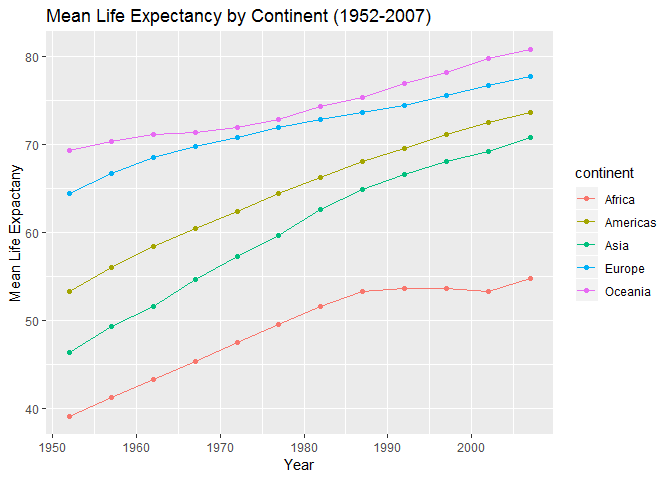
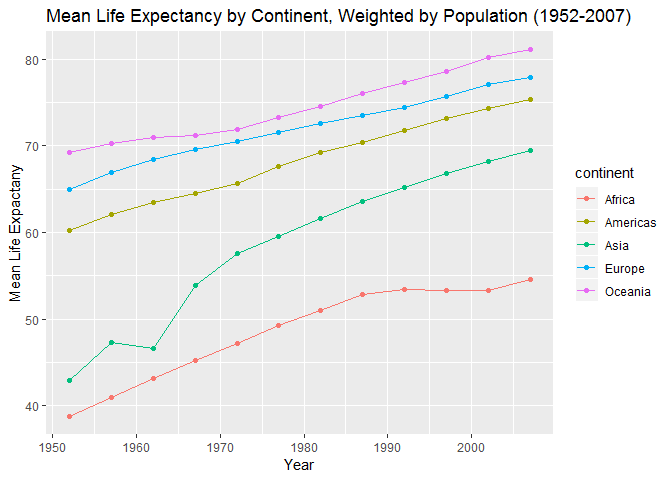
Added text and violin plot with y axis scaled to log10

diff --git a/hw03-schignel.md b/hw03-schignel.md
@@ -3,8 +3,15 @@ Homework 3
 Stephen Chignell
 October 2, 2018
 
+Overview
+========
+
+The following sections demonstrates the `tidyverse` and `ggplot2` packages for filtering, organizing, and visualizing, using the `gapminder` dataset as an example.
+
 Load Libraries
 ==============
+
+First, we need to load the required libraries (install the packages beforehand if necessary).
 
 ``` r
 suppressPackageStartupMessages(library(gapminder))
@@ -15,7 +22,7 @@ suppressPackageStartupMessages(library(ggplot2))
 Exploration Tasks
 =================
 
-We will use the following sections to demonstrate a few common tasks used in data exploration. The will provide a useful reference for future work.
+The following sections demonstrate a number of common tasks used in data exploration providing a useful reference for future work.
 
 ### 1. Get the maximum and minimum of GDP per capita for all continents
 
@@ -41,17 +48,21 @@ knitr::kable(GDPmm)
 | Europe    |   49357.19|    973.5332|
 | Oceania   |   34435.37|  10039.5956|
 
-Plot using a barchart
+Let's make two barcharts to better visualize these.
+
+**Max GDP by Continent**
 
 ``` r
 ggplot(GDPmm, aes(continent, max.gdp))+
-  geom_bar(stat = "identity", position = "dodge")+
+  geom_bar(stat = "identity")+
   aes(color = continent, fill = continent)+
   xlab("Continent")+
   ylab("Maximum GDP per Capita")
 ```
 
 ![](hw03-schignel_files/figure-markdown_github/barmax-1.png)
+
+**Minimum GDP by Continent**
 
 ``` r
 ggplot(GDPmm, aes(continent, min.gdp))+
@@ -64,6 +75,8 @@ ggplot(GDPmm, aes(continent, min.gdp))+
 ![](hw03-schignel_files/figure-markdown_github/barmin-1.png)
 
 ### 2. Look at the spread of GDP per capita within the continents
+
+To accompish this, we will filter the dataset and then apply a series of computations using the`summarize()` function:
 
 ``` r
 GDP_spread <- gapminder %>% 
@@ -83,6 +96,8 @@ knitr::kable(GDP_spread)
 | Europe    |  14469.476|   87520020|   9355.213|
 | Oceania   |  18621.609|   40436669|   6358.983|
 
+To visualize the spread of these data, we can use a boxplot:
+
 ``` r
 gapminder %>% 
   group_by(continent) %>% 
@@ -95,105 +110,121 @@ gapminder %>%
 
 ![](hw03-schignel_files/figure-markdown_github/boxplot-1.png)
 
-However, a violin plot will provide a better sense of the spread:
+The boxplot is useful, but a violin plot will provide a better visualization, since it shows all of the data points as well as the range:
 
 ``` r
 gapminder %>% 
   group_by(continent) %>% 
   ggplot(aes(continent, gdpPercap))+
-  geom_jitter(aes(color = continent, alpha=0.1))+
   geom_violin(aes(color = continent))+
+  geom_jitter(aes(color = continent, alpha=0.1))+
   xlab("Continent")+
   ylab("GDP per capita")+
   ggtitle("Gross Domestic Product per capita by Continent (1952-2007)")
 ```
 
-![](hw03-schignel_files/figure-markdown_github/violin-1.png)
+![](hw03-schignel_files/figure-markdown_github/violin-1.png) Here we see that GDP per capita varies widely within continents. This is particularly true for Asia, which has a far more extreme range than any of the other continents.
 
-Here we see that GDP per capita varies widely within continents. This is particularly true for Asia, which has a far more extreme range than any of the other continents.
+One final adjustment to this chart would be to put the Y axis on a log10 scale, so that we can better visualize the data points that are clustered near the bottom:
+
+``` r
+gapminder %>% 
+  group_by(continent) %>% 
+  ggplot(aes(continent, gdpPercap))+
+  geom_violin(aes(color = continent))+
+  geom_jitter(aes(color = continent, alpha=0.1))+
+  scale_y_log10()+
+  xlab("Continent")+
+  ylab("GDP per capita")+
+  ggtitle("Gross Domestic Product per capita by Continent (1952-2007)")
+```
+
+![](hw03-schignel_files/figure-markdown_github/violin_log-1.png) **Note** There is a tradeoff between the log10 plot and the previous plot, in that the former makes the differences between the ranges less obvious, but has the advantage of showing the "shape" of the violins, which is not possible on the normal y-axis. The ultimate choice should be based on the message that is most important to communicate for the question at hand.
 
 ### 3. How is life expectancy changing over time on different continents?
 
-For this question, we will first:
+For this question, we will group and summarize the data, and then compute the mean life expectancy, weighted by population:
 
 ``` r
 lexp <- gapminder %>% 
-  group_by(continent, year) %>%
-  summarize(mean.lexp = mean(lifeExp)) %>% 
-  arrange(year)
-knitr::kable(lexp)  
+  group_by(continent, year) %>% #group by continent and year
+  summarize(wmean.lexp = weighted.mean(lifeExp,pop)) %>% #weighted mean by population
+  arrange(year) #arrange in ascending order by year
+knitr::kable(lexp)  #output to table
 ```
 
-| continent |  year|  mean.lexp|
-|:----------|-----:|----------:|
-| Africa    |  1952|   39.13550|
-| Americas  |  1952|   53.27984|
-| Asia      |  1952|   46.31439|
-| Europe    |  1952|   64.40850|
-| Oceania   |  1952|   69.25500|
-| Africa    |  1957|   41.26635|
-| Americas  |  1957|   55.96028|
-| Asia      |  1957|   49.31854|
-| Europe    |  1957|   66.70307|
-| Oceania   |  1957|   70.29500|
-| Africa    |  1962|   43.31944|
-| Americas  |  1962|   58.39876|
-| Asia      |  1962|   51.56322|
-| Europe    |  1962|   68.53923|
-| Oceania   |  1962|   71.08500|
-| Africa    |  1967|   45.33454|
-| Americas  |  1967|   60.41092|
-| Asia      |  1967|   54.66364|
-| Europe    |  1967|   69.73760|
-| Oceania   |  1967|   71.31000|
-| Africa    |  1972|   47.45094|
-| Americas  |  1972|   62.39492|
-| Asia      |  1972|   57.31927|
-| Europe    |  1972|   70.77503|
-| Oceania   |  1972|   71.91000|
-| Africa    |  1977|   49.58042|
-| Americas  |  1977|   64.39156|
-| Asia      |  1977|   59.61056|
-| Europe    |  1977|   71.93777|
-| Oceania   |  1977|   72.85500|
-| Africa    |  1982|   51.59287|
-| Americas  |  1982|   66.22884|
-| Asia      |  1982|   62.61794|
-| Europe    |  1982|   72.80640|
-| Oceania   |  1982|   74.29000|
-| Africa    |  1987|   53.34479|
-| Americas  |  1987|   68.09072|
-| Asia      |  1987|   64.85118|
-| Europe    |  1987|   73.64217|
-| Oceania   |  1987|   75.32000|
-| Africa    |  1992|   53.62958|
-| Americas  |  1992|   69.56836|
-| Asia      |  1992|   66.53721|
-| Europe    |  1992|   74.44010|
-| Oceania   |  1992|   76.94500|
-| Africa    |  1997|   53.59827|
-| Americas  |  1997|   71.15048|
-| Asia      |  1997|   68.02052|
-| Europe    |  1997|   75.50517|
-| Oceania   |  1997|   78.19000|
-| Africa    |  2002|   53.32523|
-| Americas  |  2002|   72.42204|
-| Asia      |  2002|   69.23388|
-| Europe    |  2002|   76.70060|
-| Oceania   |  2002|   79.74000|
-| Africa    |  2007|   54.80604|
-| Americas  |  2007|   73.60812|
-| Asia      |  2007|   70.72848|
-| Europe    |  2007|   77.64860|
-| Oceania   |  2007|   80.71950|
+| continent |  year|  wmean.lexp|
+|:----------|-----:|-----------:|
+| Africa    |  1952|    38.79973|
+| Americas  |  1952|    60.23599|
+| Asia      |  1952|    42.94114|
+| Europe    |  1952|    64.90540|
+| Oceania   |  1952|    69.17040|
+| Africa    |  1957|    40.94031|
+| Americas  |  1957|    62.01806|
+| Asia      |  1957|    47.28835|
+| Europe    |  1957|    66.89364|
+| Oceania   |  1957|    70.31693|
+| Africa    |  1962|    43.09925|
+| Americas  |  1962|    63.43706|
+| Asia      |  1962|    46.57369|
+| Europe    |  1962|    68.45957|
+| Oceania   |  1962|    70.98808|
+| Africa    |  1967|    45.17721|
+| Americas  |  1967|    64.50630|
+| Asia      |  1967|    53.88261|
+| Europe    |  1967|    69.54963|
+| Oceania   |  1967|    71.17848|
+| Africa    |  1972|    47.21229|
+| Americas  |  1972|    65.70490|
+| Asia      |  1972|    57.52159|
+| Europe    |  1972|    70.46884|
+| Oceania   |  1972|    71.92273|
+| Africa    |  1977|    49.20883|
+| Americas  |  1977|    67.60591|
+| Asia      |  1977|    59.55648|
+| Europe    |  1977|    71.53989|
+| Oceania   |  1977|    73.25684|
+| Africa    |  1982|    51.01744|
+| Americas  |  1982|    69.19264|
+| Asia      |  1982|    61.57472|
+| Europe    |  1982|    72.56247|
+| Oceania   |  1982|    74.58291|
+| Africa    |  1987|    52.82479|
+| Americas  |  1987|    70.35814|
+| Asia      |  1987|    63.53710|
+| Europe    |  1987|    73.44717|
+| Oceania   |  1987|    75.98107|
+| Africa    |  1992|    53.37292|
+| Americas  |  1992|    71.72177|
+| Asia      |  1992|    65.14874|
+| Europe    |  1992|    74.44273|
+| Oceania   |  1992|    77.35788|
+| Africa    |  1997|    53.28327|
+| Americas  |  1997|    73.19154|
+| Asia      |  1997|    66.77092|
+| Europe    |  1997|    75.70849|
+| Oceania   |  1997|    78.61843|
+| Africa    |  2002|    53.30314|
+| Americas  |  2002|    74.24736|
+| Asia      |  2002|    68.13732|
+| Europe    |  2002|    77.02232|
+| Oceania   |  2002|    80.16006|
+| Africa    |  2007|    54.56441|
+| Americas  |  2007|    75.35668|
+| Asia      |  2007|    69.44386|
+| Europe    |  2007|    77.89057|
+| Oceania   |  2007|    81.06215|
+
+The above table provides all of the data, but is not easy to use for picking out patterns. Let's plot the data throught time:
 
 ``` r
-ggplot(data = lexp, aes(x = year, y = mean.lexp))+
+ggplot(data = lexp, aes(x = year, y = wmean.lexp))+ 
   geom_line(aes(color = continent))+
   geom_point(aes(color = continent))+
   xlab("Year")+
   ylab("Mean Life Expactany")+
-  ggtitle("Mean Life Expectancy by Continent (1952-2007)")
+  ggtitle("Mean Life Expectancy by Continent, Weighted by Population (1952-2007)")
 ```
 
 ![](hw03-schignel_files/figure-markdown_github/lexp_time-1.png)
